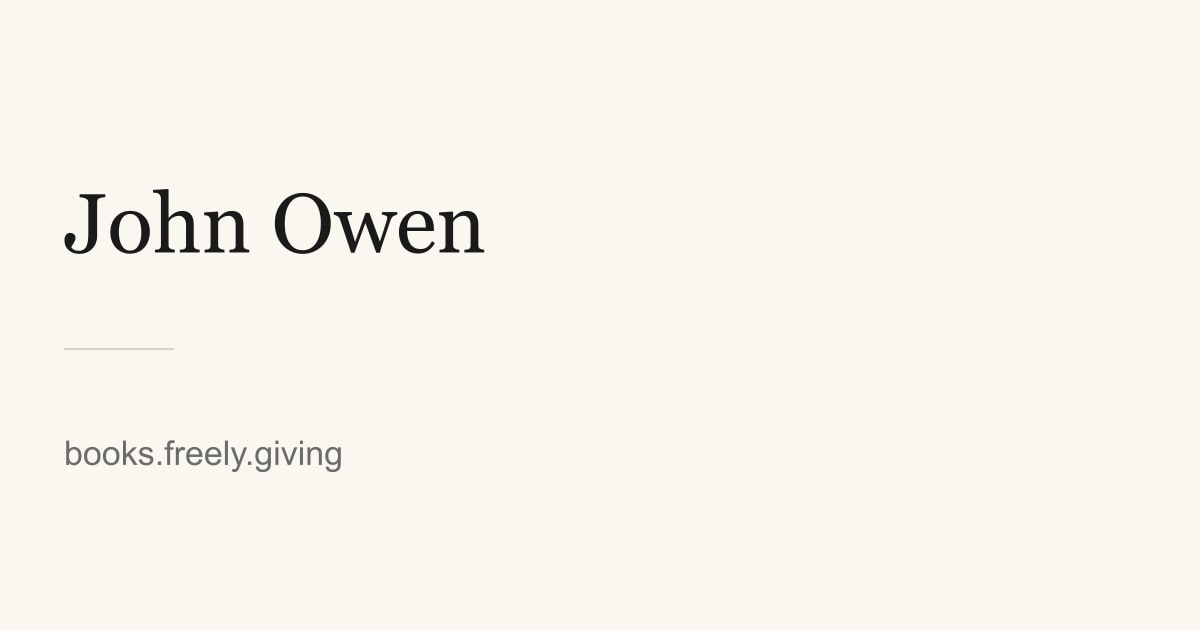
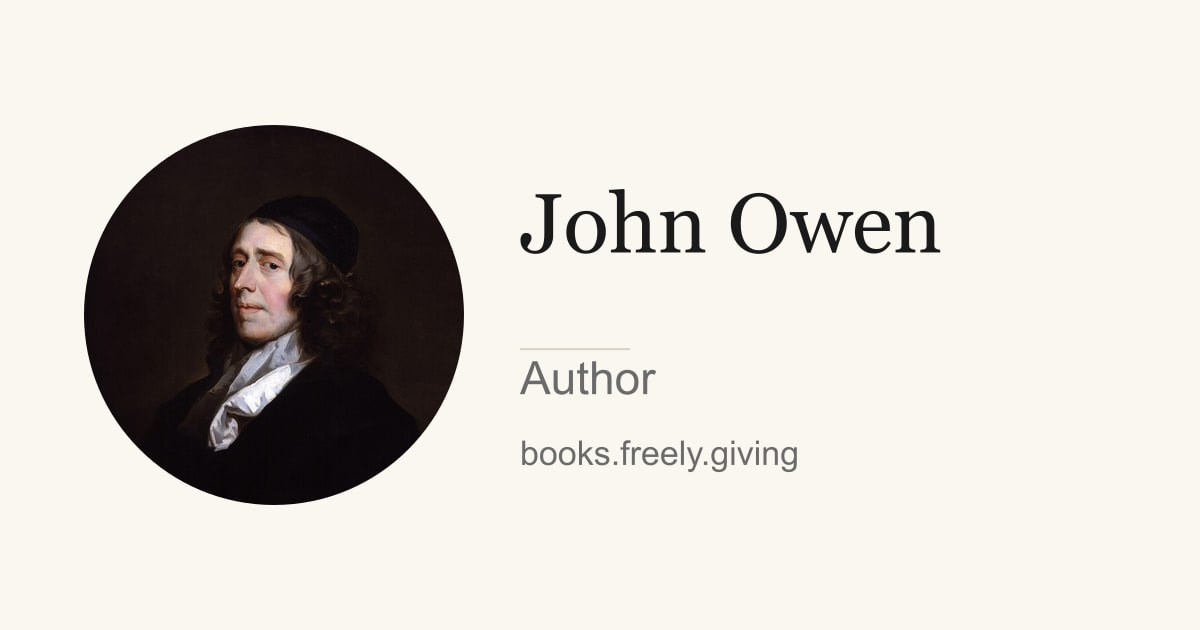
Publish Courtney's six new books; add author portraits
Years set (Owen 1648, 1656, 1658; Boston 1737; Watson 1663; Perkins 1609),
reader-style descriptions written in the site's style, hidden flag removed.
Portraits for John Owen, Thomas Boston and William Perkins are public-domain
images from Wikimedia Commons. The sync script now stamps addedDate with the
local date, not UTC.

diff --git a/scripts/sync-freely-given.js b/scripts/sync-freely-given.js
@@ -260,7 +260,7 @@ async function main() {
   }
 
   const state = existsSync(STATE) ? JSON.parse(readFileSync(STATE, "utf8")) : { editions: {} };
-  const today = new Date().toISOString().slice(0, 10);
+  const today = new Date().toLocaleDateString("en-CA"); // local date, YYYY-MM-DD
   const report = [], upload = [], seen = new Set(), titles = existingTitles();
   console.log(`Freely Given Books release ${site.release}${dryRun ? " (dry run)" : ""}`);
 
